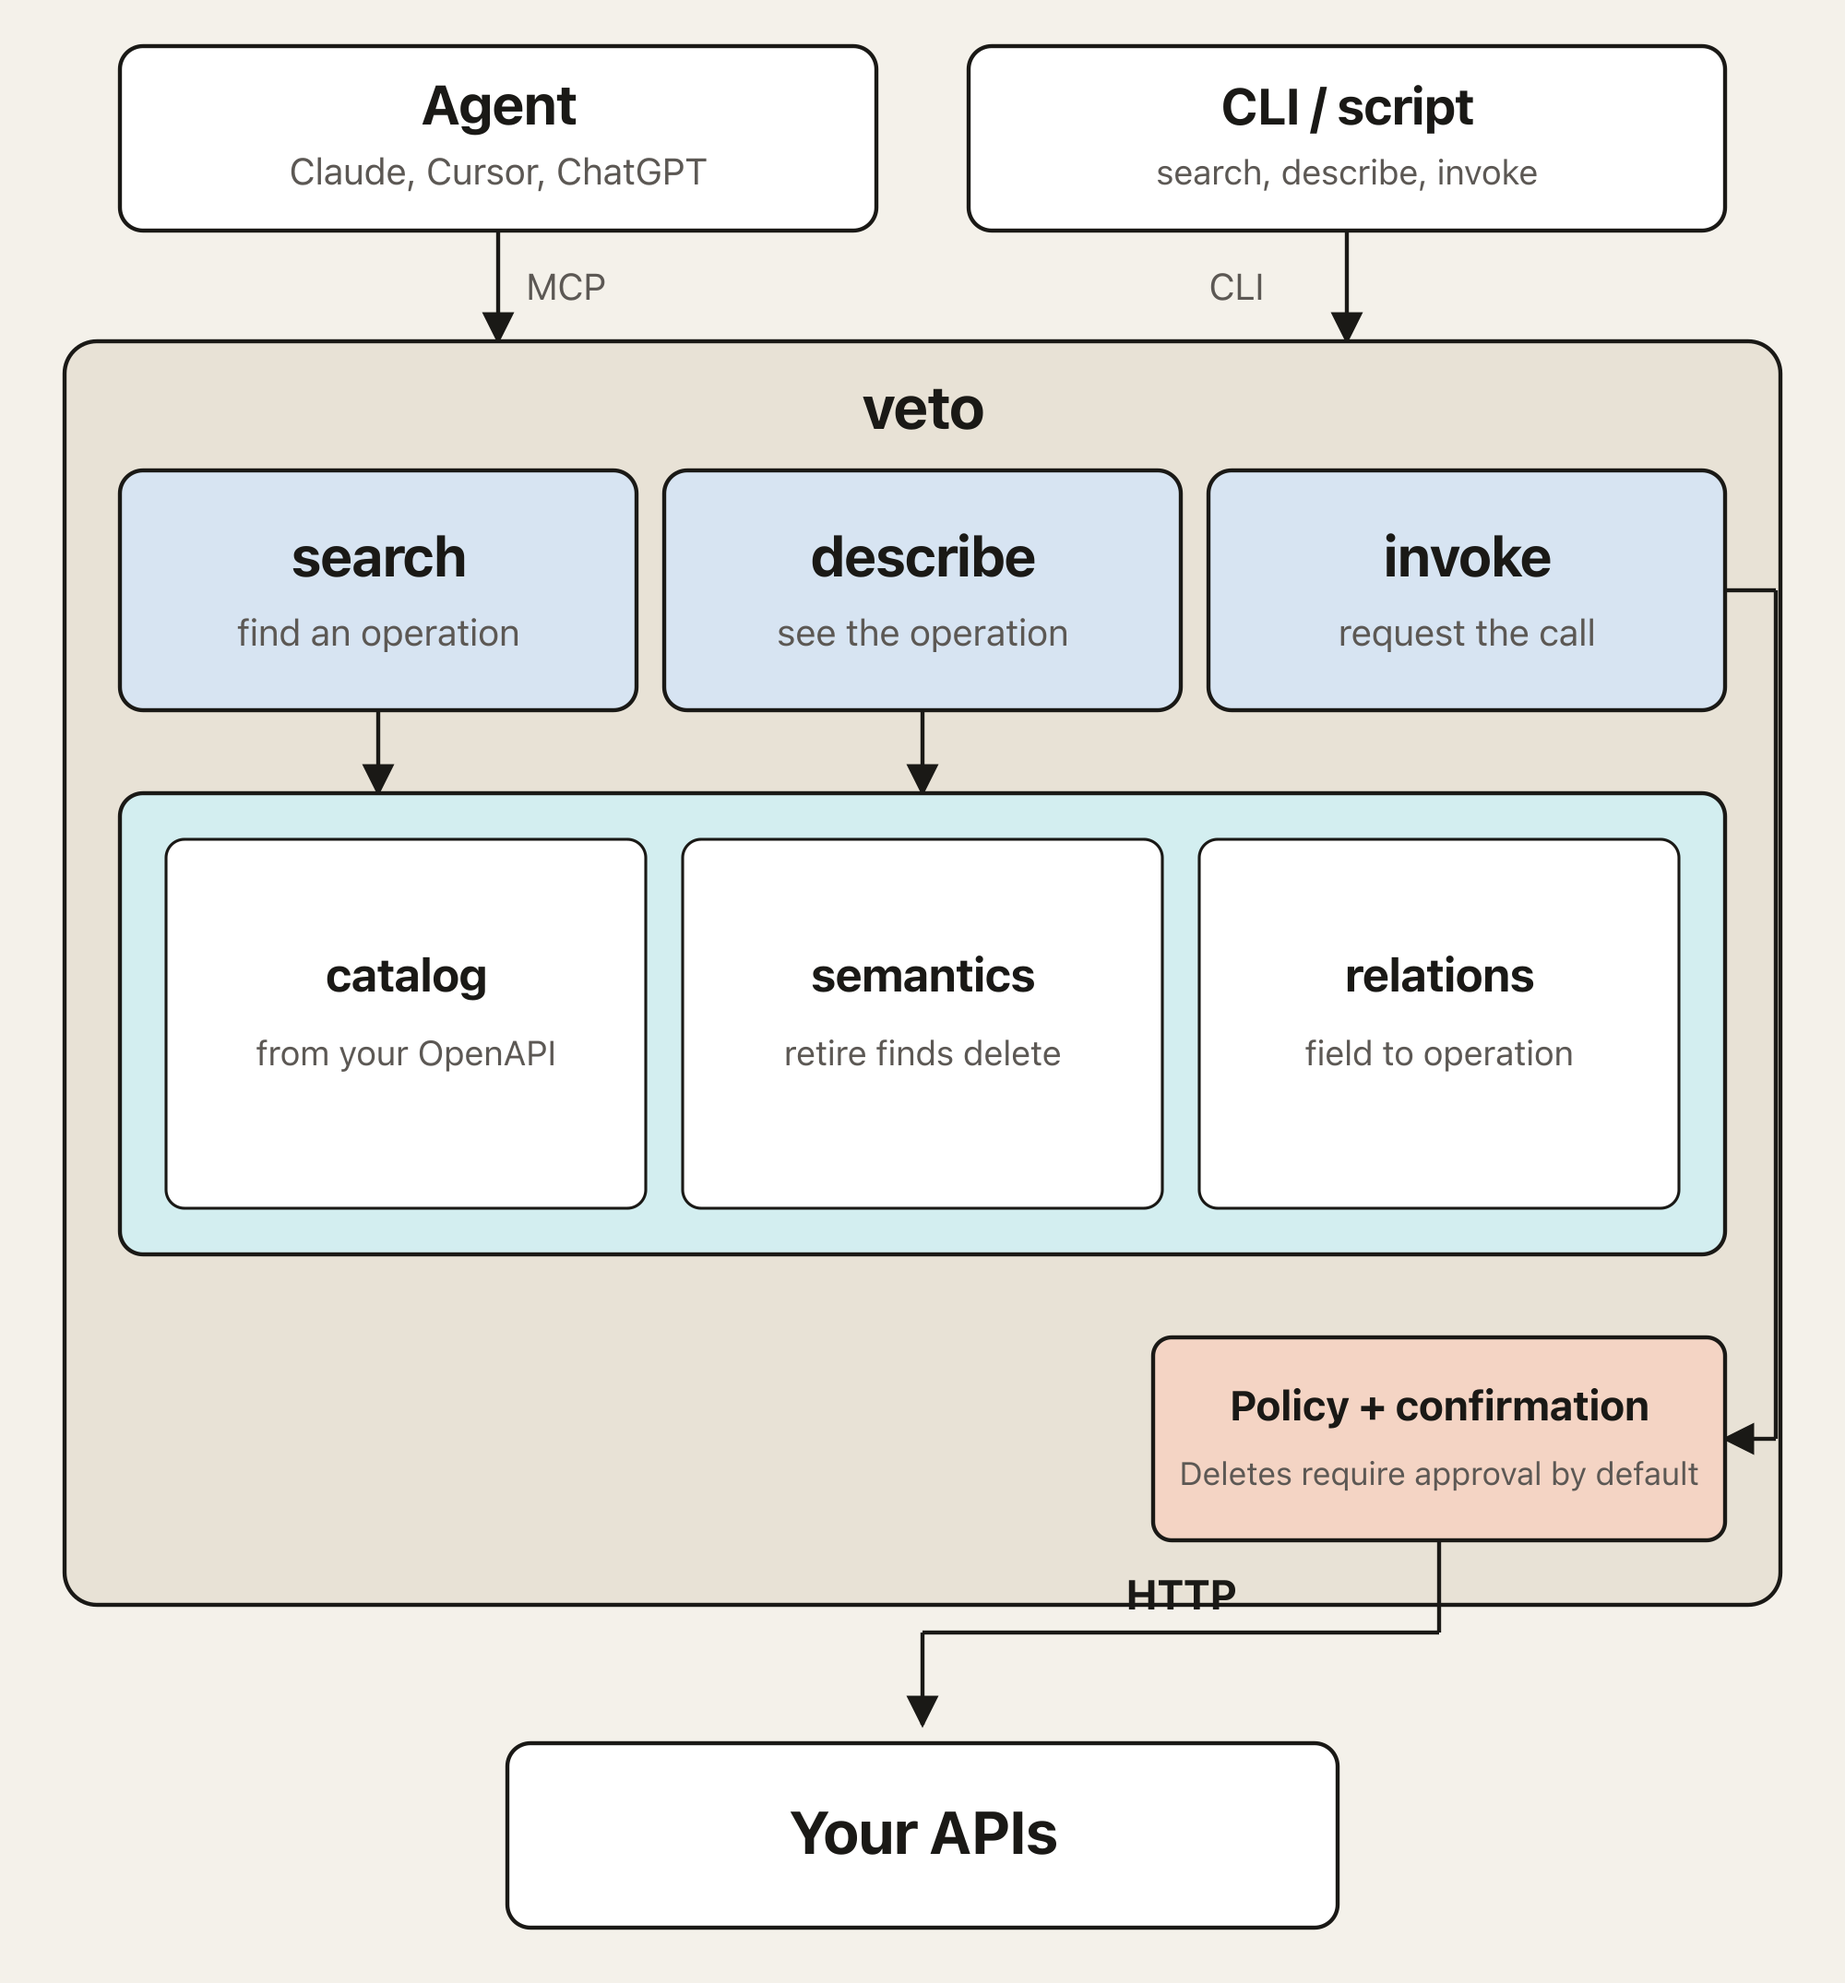
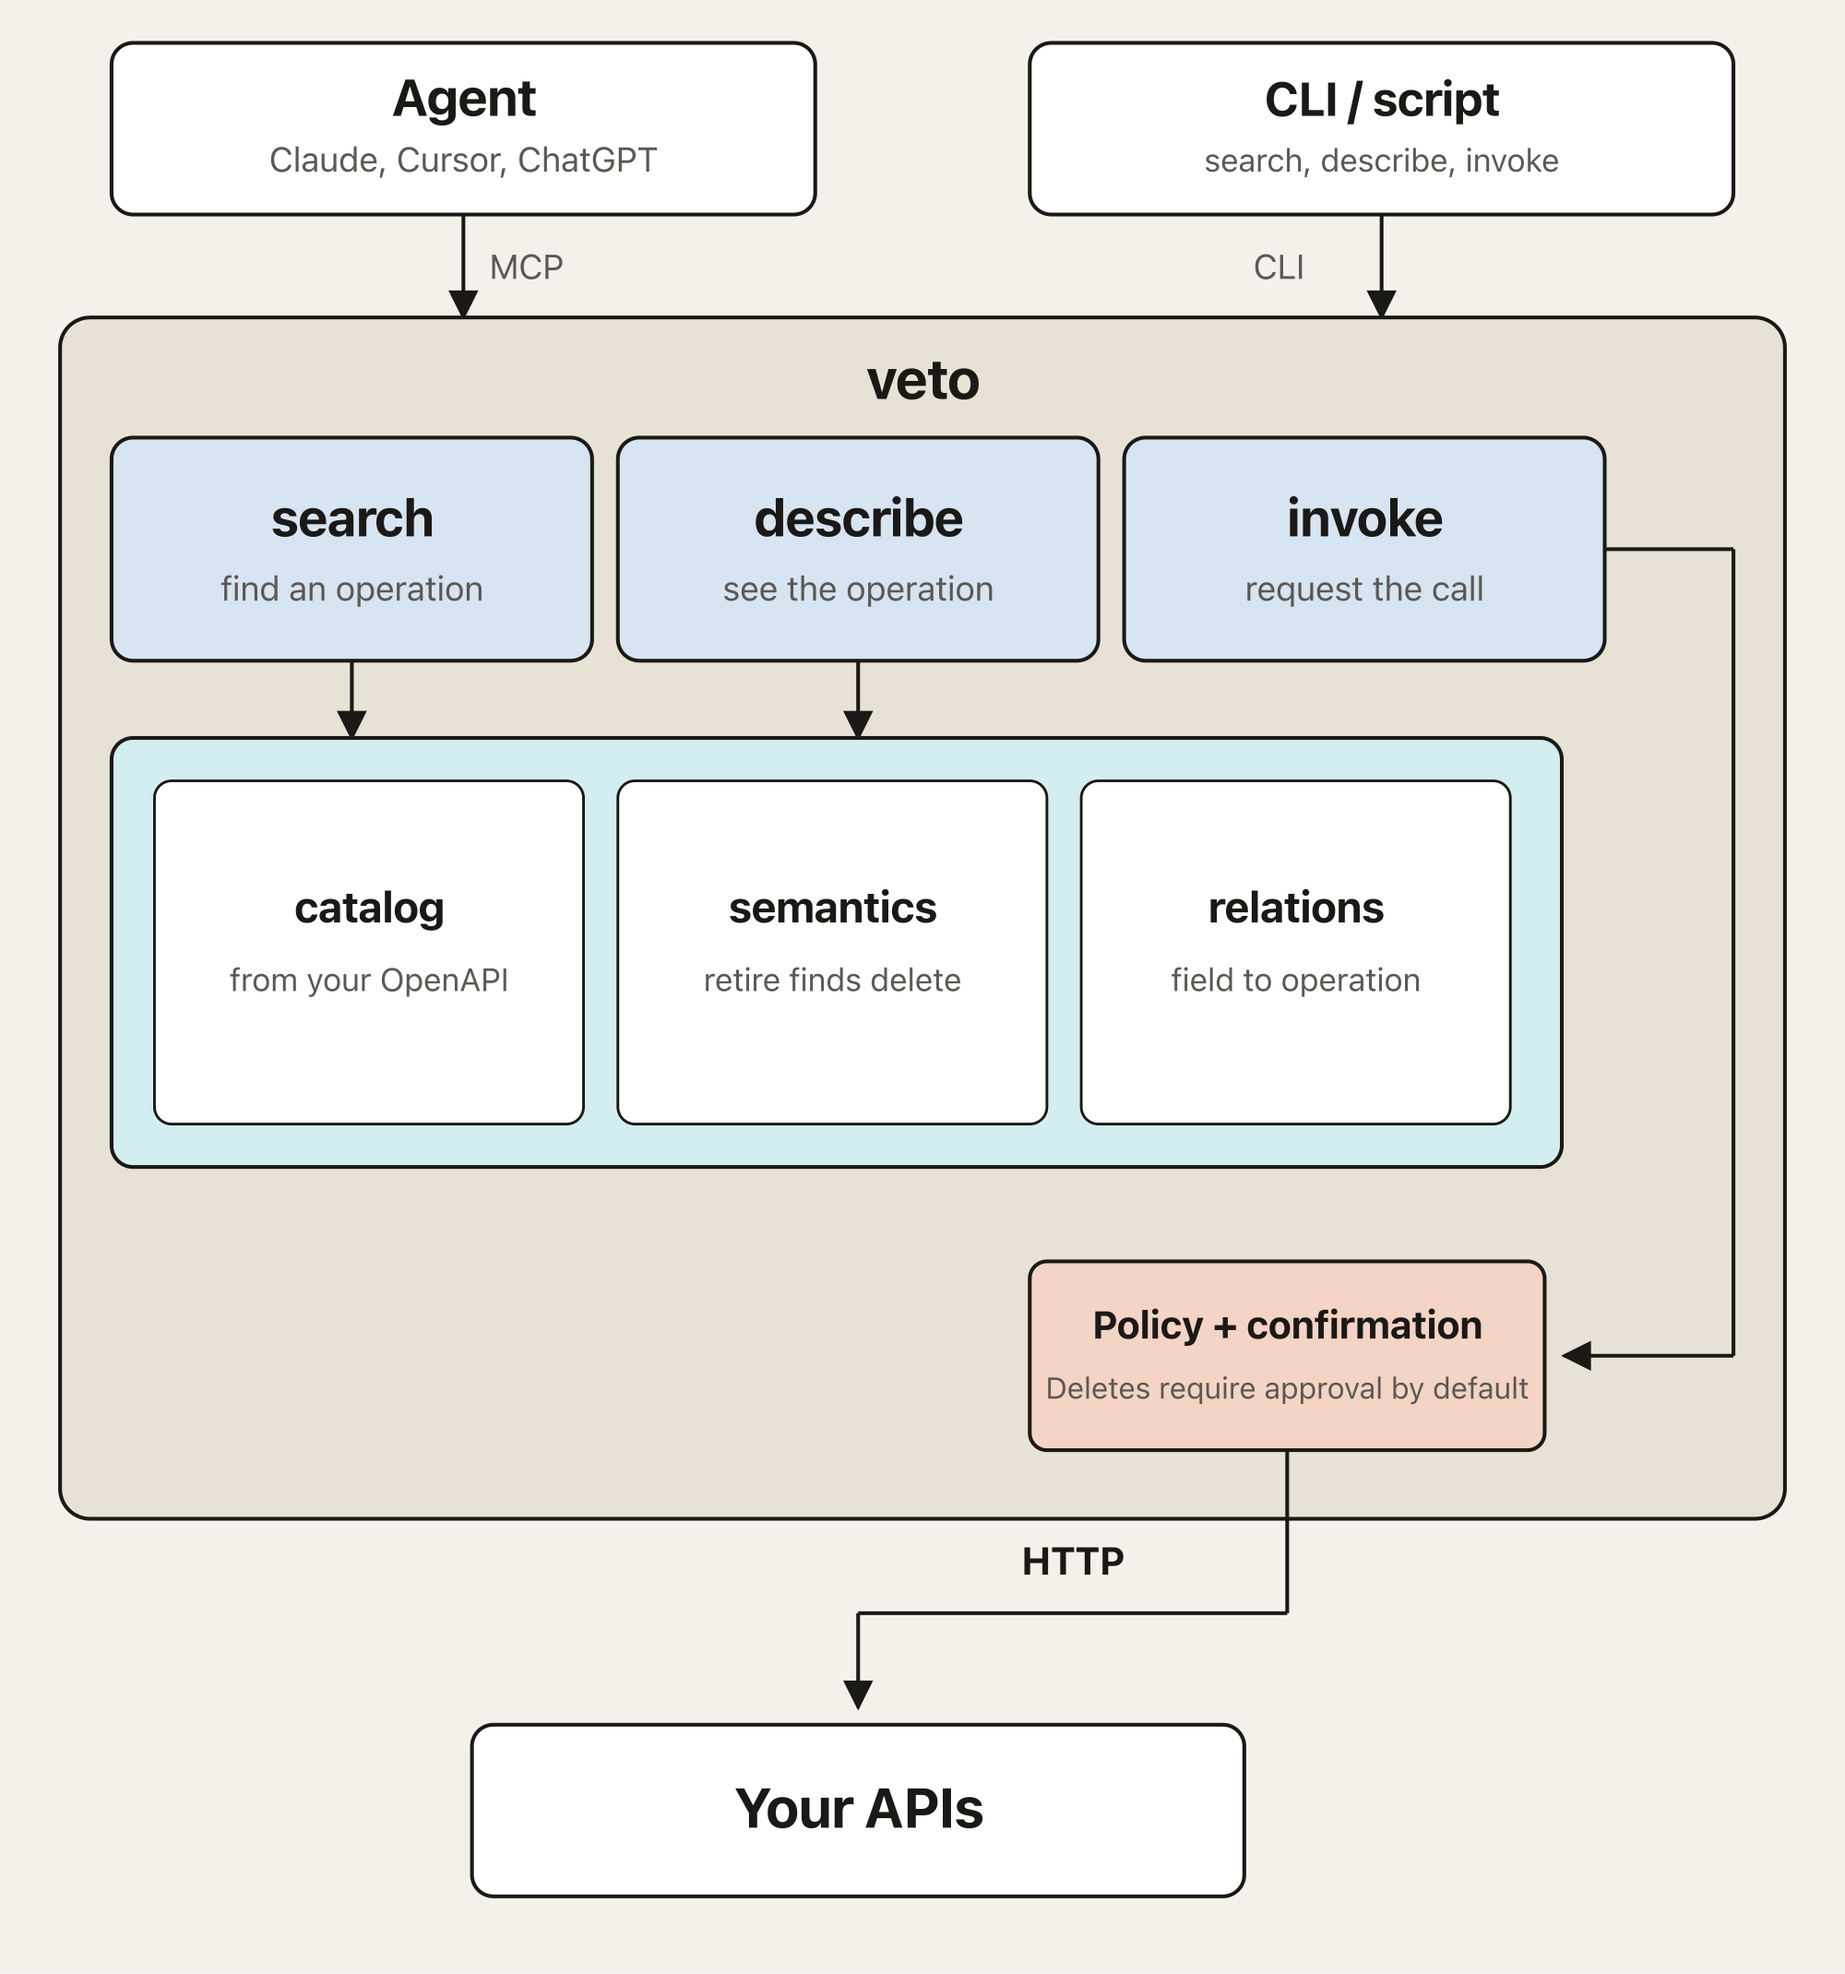
Give the invoke path and the HTTP label room on the runtime figure.

Changed region(s): [[0.031, 0.0, 0.992, 0.9869]]

diff --git a/CHANGELOG.md b/CHANGELOG.md
@@ -2,6 +2,8 @@
 
 ## Unreleased
 
+- The runtime figure keeps the invoke path off the catalog and the HTTP label off the line to your APIs.
+
 ## v0.1.6 - 2026-10-04
 
 - Search returns `related_calls`. A pending id submitted as `approval_id` is `pending_approval` and does not run HTTP. `idempotency_key` is on invoke and on a pin. The agent loop copies the kernel page walk, body cap, and invoke gate. A context pack keeps the pending id after params are dropped. A generated client hides the runtime and exposes `Operation`, `SetPolicy`, and `Confirm`. A grouped tool lists the callable ids. The guide names pins, collisions, pages, SIGTERM, and `sent` versus `http`.
